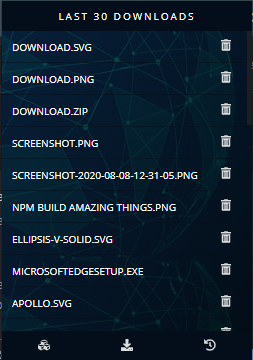
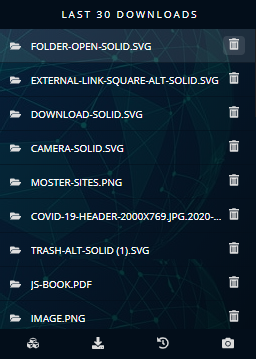
update app

diff --git a/src/App.js b/src/App.js
@@ -2,21 +2,22 @@ import React, { useState } from 'react';
 import ListTopSites from './components/ListTopSites';
 import ListDownloads from './components/ListDownloads';
 import ListHistory from './components/ListHistory';
-//const Settings = React.lazy(() => import('./components/Settings'));
+import CaptureTab from './components/CaptureTab';
 
 const tabs = [
-  { id: 0, title: 'top visited sites', comp: <ListTopSites />, svg:<svg xmlns="http://www.w3.org/2000/svg" aria-hidden="true" focusable="false" data-prefix="fas" data-icon="cubes" className="svg-inline--fa fa-cubes fa-w-16" role="img" viewBox="0 0 512 512"><path fill="#fff" d="M488.6 250.2L392 214V105.5c0-15-9.3-28.4-23.4-33.7l-100-37.5c-8.1-3.1-17.1-3.1-25.3 0l-100 37.5c-14.1 5.3-23.4 18.7-23.4 33.7V214l-96.6 36.2C9.3 255.5 0 268.9 0 283.9V394c0 13.6 7.7 26.1 19.9 32.2l100 50c10.1 5.1 22.1 5.1 32.2 0l103.9-52 103.9 52c10.1 5.1 22.1 5.1 32.2 0l100-50c12.2-6.1 19.9-18.6 19.9-32.2V283.9c0-15-9.3-28.4-23.4-33.7zM358 214.8l-85 31.9v-68.2l85-37v73.3zM154 104.1l102-38.2 102 38.2v.6l-102 41.4-102-41.4v-.6zm84 291.1l-85 42.5v-79.1l85-38.8v75.4zm0-112l-102 41.4-102-41.4v-.6l102-38.2 102 38.2v.6zm240 112l-85 42.5v-79.1l85-38.8v75.4zm0-112l-102 41.4-102-41.4v-.6l102-38.2 102 38.2v.6z"></path></svg>},
-  { id: 1, title: 'last 30 downloads', comp: <ListDownloads />, svg:<svg xmlns="http://www.w3.org/2000/svg" aria-hidden="true" focusable="false" data-prefix="fas" data-icon="download" className="svg-inline--fa fa-download fa-w-16" role="img" viewBox="0 0 512 512">
-  <path fill="#fff" d="M216 0h80c13.3 0 24 10.7 24 24v168h87.7c17.8 0 26.7 21.5 14.1 34.1L269.7 378.3c-7.5 7.5-19.8 7.5-27.3 0L90.1 226.1c-12.6-12.6-3.7-34.1 14.1-34.1H192V24c0-13.3 10.7-24 24-24zm296 376v112c0 13.3-10.7 24-24 24H24c-13.3 0-24-10.7-24-24V376c0-13.3 10.7-24 24-24h146.7l49 49c20.1 20.1 52.5 20.1 72.6 0l49-49H488c13.3 0 24 10.7 24 24zm-124 88c0-11-9-20-20-20s-20 9-20 20 9 20 20 20 20-9 20-20zm64 0c0-11-9-20-20-20s-20 9-20 20 9 20 20 20 20-9 20-20z"></path>
-  </svg> },
-  { id: 2, title: 'last 30 visited urls', comp: <ListHistory />, svg:<svg xmlns="http://www.w3.org/2000/svg" aria-hidden="true" focusable="false" data-prefix="fas" data-icon="history" className="svg-inline--fa fa-history fa-w-16" role="img" viewBox="0 0 512 512"><path fill="#fff" d="M504 255.531c.253 136.64-111.18 248.372-247.82 248.468-59.015.042-113.223-20.53-155.822-54.911-11.077-8.94-11.905-25.541-1.839-35.607l11.267-11.267c8.609-8.609 22.353-9.551 31.891-1.984C173.062 425.135 212.781 440 256 440c101.705 0 184-82.311 184-184 0-101.705-82.311-184-184-184-48.814 0-93.149 18.969-126.068 49.932l50.754 50.754c10.08 10.08 2.941 27.314-11.313 27.314H24c-8.837 0-16-7.163-16-16V38.627c0-14.254 17.234-21.393 27.314-11.314l49.372 49.372C129.209 34.136 189.552 8 256 8c136.81 0 247.747 110.78 248 247.531zm-180.912 78.784l9.823-12.63c8.138-10.463 6.253-25.542-4.21-33.679L288 256.349V152c0-13.255-10.745-24-24-24h-16c-13.255 0-24 10.745-24 24v135.651l65.409 50.874c10.463 8.137 25.541 6.253 33.679-4.21z"></path></svg> }
+  { id: 0, title: 'top visited sites', comp: <ListTopSites />, svg: <svg xmlns="http://www.w3.org/2000/svg" viewBox="0 0 512 512"><path fill="#fff" d="M488.6 250.2L392 214V105.5c0-15-9.3-28.4-23.4-33.7l-100-37.5c-8.1-3.1-17.1-3.1-25.3 0l-100 37.5c-14.1 5.3-23.4 18.7-23.4 33.7V214l-96.6 36.2C9.3 255.5 0 268.9 0 283.9V394c0 13.6 7.7 26.1 19.9 32.2l100 50c10.1 5.1 22.1 5.1 32.2 0l103.9-52 103.9 52c10.1 5.1 22.1 5.1 32.2 0l100-50c12.2-6.1 19.9-18.6 19.9-32.2V283.9c0-15-9.3-28.4-23.4-33.7zM358 214.8l-85 31.9v-68.2l85-37v73.3zM154 104.1l102-38.2 102 38.2v.6l-102 41.4-102-41.4v-.6zm84 291.1l-85 42.5v-79.1l85-38.8v75.4zm0-112l-102 41.4-102-41.4v-.6l102-38.2 102 38.2v.6zm240 112l-85 42.5v-79.1l85-38.8v75.4zm0-112l-102 41.4-102-41.4v-.6l102-38.2 102 38.2v.6z"></path></svg> },
+  {
+    id: 1, title: 'last 30 downloads', comp: <ListDownloads />, svg: <svg xmlns="http://www.w3.org/2000/svg" viewBox="0 0 512 512">
+      <path fill="#fff" d="M216 0h80c13.3 0 24 10.7 24 24v168h87.7c17.8 0 26.7 21.5 14.1 34.1L269.7 378.3c-7.5 7.5-19.8 7.5-27.3 0L90.1 226.1c-12.6-12.6-3.7-34.1 14.1-34.1H192V24c0-13.3 10.7-24 24-24zm296 376v112c0 13.3-10.7 24-24 24H24c-13.3 0-24-10.7-24-24V376c0-13.3 10.7-24 24-24h146.7l49 49c20.1 20.1 52.5 20.1 72.6 0l49-49H488c13.3 0 24 10.7 24 24zm-124 88c0-11-9-20-20-20s-20 9-20 20 9 20 20 20 20-9 20-20zm64 0c0-11-9-20-20-20s-20 9-20 20 9 20 20 20 20-9 20-20z"></path>
+    </svg>
+  },
+  { id: 2, title: 'last 30 visited urls', comp: <ListHistory />, svg: <svg xmlns="http://www.w3.org/2000/svg" viewBox="0 0 512 512"><path fill="#fff" d="M504 255.531c.253 136.64-111.18 248.372-247.82 248.468-59.015.042-113.223-20.53-155.822-54.911-11.077-8.94-11.905-25.541-1.839-35.607l11.267-11.267c8.609-8.609 22.353-9.551 31.891-1.984C173.062 425.135 212.781 440 256 440c101.705 0 184-82.311 184-184 0-101.705-82.311-184-184-184-48.814 0-93.149 18.969-126.068 49.932l50.754 50.754c10.08 10.08 2.941 27.314-11.313 27.314H24c-8.837 0-16-7.163-16-16V38.627c0-14.254 17.234-21.393 27.314-11.314l49.372 49.372C129.209 34.136 189.552 8 256 8c136.81 0 247.747 110.78 248 247.531zm-180.912 78.784l9.823-12.63c8.138-10.463 6.253-25.542-4.21-33.679L288 256.349V152c0-13.255-10.745-24-24-24h-16c-13.255 0-24 10.745-24 24v135.651l65.409 50.874c10.463 8.137 25.541 6.253 33.679-4.21z"></path></svg> },
+  { id: 3, title: 'Capture Current Tab', comp: <CaptureTab />, svg: <svg xmlns="http://www.w3.org/2000/svg" viewBox="0 0 512 512"><path fill="#fff" d="M512 144v288c0 26.5-21.5 48-48 48H48c-26.5 0-48-21.5-48-48V144c0-26.5 21.5-48 48-48h88l12.3-32.9c7-18.7 24.9-31.1 44.9-31.1h125.5c20 0 37.9 12.4 44.9 31.1L376 96h88c26.5 0 48 21.5 48 48zM376 288c0-66.2-53.8-120-120-120s-120 53.8-120 120 53.8 120 120 120 120-53.8 120-120zm-32 0c0 48.5-39.5 88-88 88s-88-39.5-88-88 39.5-88 88-88 88 39.5 88 88z"/></svg> }
 ];
 
 export default function App () {
 
-  const [state, setState] = useState({
-    activeTab: 0
-  });
+  const [state, setState] = useState({ activeTab: 0 });
 
   const onTab = (tabId) => {
     setState({ ...state, activeTab: +tabId });

diff --git a/src/components/CaptureTab.js b/src/components/CaptureTab.js
@@ -1,0 +1,36 @@
+import React, { useState } from 'react';
+
+let isChrome = /Chrome/.test(navigator.userAgent) && /Google Inc/.test(navigator.vendor);
+window.chrome = isChrome ? window.chrome : window.browser;
+
+export default function CaptureTab () {
+
+  const [imgURL, setImgURL] = useState(null);
+
+  const onCapture = () => {
+    window.chrome.tabs.captureVisibleTab(null, { format: 'png' }, (imageURL) => {
+      setImgURL(imageURL);
+    });
+  }
+
+  const onDownload = () => {
+    const link = document.createElement('a');
+    link.href = imgURL;
+    link.download = 'moster-sites.png';
+    document.body.appendChild(link);
+    link.click();
+    document.body.removeChild(link);
+  }
+
+  return (
+    <div className="w-100 h-100 d-flex-col cp-tab">
+      {imgURL
+        ? <>
+          <button onClick={onCapture}><svg xmlns="http://www.w3.org/2000/svg" viewBox="0 0 512 512"><path fill="#fff" d="M512 144v288c0 26.5-21.5 48-48 48H48c-26.5 0-48-21.5-48-48V144c0-26.5 21.5-48 48-48h88l12.3-32.9c7-18.7 24.9-31.1 44.9-31.1h125.5c20 0 37.9 12.4 44.9 31.1L376 96h88c26.5 0 48 21.5 48 48zM376 288c0-66.2-53.8-120-120-120s-120 53.8-120 120 53.8 120 120 120 120-53.8 120-120zm-32 0c0 48.5-39.5 88-88 88s-88-39.5-88-88 39.5-88 88-88 88 39.5 88 88z" /></svg> capture</button>          
+          <div className="w-100"><img src={imgURL} alt="captured tab" className="w-100" /></div>
+          <button onClick={onDownload}><svg xmlns="http://www.w3.org/2000/svg" viewBox="0 0 512 512"><path fill="#fff" d="M216 0h80c13.3 0 24 10.7 24 24v168h87.7c17.8 0 26.7 21.5 14.1 34.1L269.7 378.3c-7.5 7.5-19.8 7.5-27.3 0L90.1 226.1c-12.6-12.6-3.7-34.1 14.1-34.1H192V24c0-13.3 10.7-24 24-24zm296 376v112c0 13.3-10.7 24-24 24H24c-13.3 0-24-10.7-24-24V376c0-13.3 10.7-24 24-24h146.7l49 49c20.1 20.1 52.5 20.1 72.6 0l49-49H488c13.3 0 24 10.7 24 24zm-124 88c0-11-9-20-20-20s-20 9-20 20 9 20 20 20 20-9 20-20zm64 0c0-11-9-20-20-20s-20 9-20 20 9 20 20 20 20-9 20-20z" /></svg> download</button>
+        </>
+        : <button onClick={onCapture} className="h-100 w-100 p-0 m-0"><svg className="w-52" xmlns="http://www.w3.org/2000/svg" viewBox="0 0 512 512"><path fill="#fff" d="M512 144v288c0 26.5-21.5 48-48 48H48c-26.5 0-48-21.5-48-48V144c0-26.5 21.5-48 48-48h88l12.3-32.9c7-18.7 24.9-31.1 44.9-31.1h125.5c20 0 37.9 12.4 44.9 31.1L376 96h88c26.5 0 48 21.5 48 48zM376 288c0-66.2-53.8-120-120-120s-120 53.8-120 120 53.8 120 120 120 120-53.8 120-120zm-32 0c0 48.5-39.5 88-88 88s-88-39.5-88-88 39.5-88 88-88 88 39.5 88 88z" /></svg></button>}
+    </div>
+  );
+}

diff --git a/src/index.css b/src/index.css
@@ -32,8 +32,21 @@ body {margin: 0; overflow-x: hidden;}
 header,.tabs {height:30px; background-color: #030e1a;}
 
 .tabs { position: fixed;bottom: 0;left: 0;right: 0;z-index: 9;}
-.tabs span {flex: 1 1 33%; text-align: center; }
+.tabs span {flex: 1 1 25%; text-align: center; }
 
+
+/*******************************/
+.cp-tab {justify-content: space-between; align-items: center;}
+.cp-tab button {
+  background-color: #01181f;
+  padding: 7px 20px;
+  margin: 10px 0;
+  border-radius: 0;
+  box-shadow: 0px 1.6px 3.6px rgba(0,0,0,0.25),0px 0px 2.9px rgba(0,0,0,0.21);
+}
+
+.cp-tab img {padding: 10px;}
+.w-52 { width: 52px !important;  height: 52px !important; }
 /*******************************/
 ul { width: 100%; list-style: none; margin: 0; padding: 0;  }
 li {padding: 7px 10px; width: 100%; border-bottom: 1px solid #030e1a82; cursor: pointer; transition: background .25s; }
@@ -46,18 +59,31 @@ svg { width: 12px;  height: 12px;}
 svg path {fill: #dddddd;}
 svg path:hover {fill: #00BCD4}
 
-button {    background-color: inherit;
-  color: #fff; border-radius: 4px; border: 0; transition:background .25s}
+button {
+  color: #fff;
+  font-size: 12px;
+  text-transform: uppercase;
+  letter-spacing: 2px;
+  border: 0;
+  transition: background-color .25s;
+  cursor: pointer;
+}
 
-button:hover {background-color: #ff5151; }
+button:hover {background-color: #ffffff1a;}
 
-button svg { width: 10px; }
-button svg path:hover {fill: #ffffff}
+ul li button { background-color: inherit; margin:0; border-radius: 4px; }
+
+ul li button:hover {background-color: #ff5151; }
+
+ul li button svg { width: 10px; }
+ul li button svg path:hover {fill: #ffffff}
 
 hr {
   margin: 0;
   border: 1px solid var(--main-color);
 }
+
+/************************************/
 
 .d-flex {
   display: flex;
@@ -78,7 +104,8 @@ hr {
   flex-wrap: wrap;
 }
 
-.m-0 {margin:0}
+.p-0 {padding:0 !important; }
+.m-0 {margin:0 !important; }
 .mt-0 {margin-top:0}
 .mr-10 {margin-right: 10px;}
 .ml-10 {margin-left: 10px;}

diff --git a/src/components/ListHistory.js b/src/components/ListHistory.js
@@ -17,7 +17,7 @@ export default function ListHistory () {
   }, []);
 
   const onRm = (site) => {
-    let c = window.confirm("Are you sure you wish to delete? " + site.title);
+    let c = window.confirm("Delete? " + site.title);
     c && window.chrome.history.deleteUrl({ url: site.url }, () => {
       setIsLoading(true);
       window.chrome.history.search({ text: '', maxResults: 30 }, (historySites) => {
@@ -30,8 +30,9 @@ export default function ListHistory () {
   return (<>
     <ul>
       {allSites && allSites.map(site => <li key={site.id} className="d-flex-sp truncate">
-        <a href={site.url} target="_blank" rel="noopener noreferrer" className="truncate txt-muted">
-          {site.title}
+        <a href={site.url} target="_blank" rel="noopener noreferrer" className="d-flex-sp truncate txt-muted">
+        <svg xmlns="http://www.w3.org/2000/svg" viewBox="0 0 448 512"><path fill="#fff" d="M448 80v352c0 26.51-21.49 48-48 48H48c-26.51 0-48-21.49-48-48V80c0-26.51 21.49-48 48-48h352c26.51 0 48 21.49 48 48zm-88 16H248.029c-21.313 0-32.08 25.861-16.971 40.971l31.984 31.987L67.515 364.485c-4.686 4.686-4.686 12.284 0 16.971l31.029 31.029c4.687 4.686 12.285 4.686 16.971 0l195.526-195.526 31.988 31.991C358.058 263.977 384 253.425 384 231.979V120c0-13.255-10.745-24-24-24z"/></svg>
+        <span className="truncate ml-10">{site.title}</span>
         </a>
 
         <button onClick={() => { onRm(site) }}><svg xmlns="http://www.w3.org/2000/svg" viewBox="0 0 448 512"><path fill="#fff" d="M32 464a48 48 0 0 0 48 48h288a48 48 0 0 0 48-48V128H32zm272-256a16 16 0 0 1 32 0v224a16 16 0 0 1-32 0zm-96 0a16 16 0 0 1 32 0v224a16 16 0 0 1-32 0zm-96 0a16 16 0 0 1 32 0v224a16 16 0 0 1-32 0zM432 32H312l-9.4-18.7A24 24 0 0 0 281.1 0H166.8a23.72 23.72 0 0 0-21.4 13.3L136 32H16A16 16 0 0 0 0 48v32a16 16 0 0 0 16 16h416a16 16 0 0 0 16-16V48a16 16 0 0 0-16-16z"/></svg></button>

diff --git a/src/components/ListDownloads.js b/src/components/ListDownloads.js
@@ -27,7 +27,7 @@ export default function ListDownloads () {
   }, []);
 
   const onRm = (file) => {
-    let c = window.confirm("Are you sure you wish to delete? " + extractFileName(file.filename));
+    let c = window.confirm("Delete? " + extractFileName(file.filename));
     c && window.chrome.downloads.erase({ id: file.id }, () => {
       setIsLoading(true);
       window.chrome.downloads.search({}, (downloads) => {
@@ -41,8 +41,9 @@ export default function ListDownloads () {
     <ul>
       {state && state.map(file => <li key={file.id} className="truncate d-flex-sp">
 
-        <span onClick={() => { window.chrome.downloads.show(file.id) }} className="truncate">
-          {extractFileName(file.filename)}
+        <span onClick={() => { window.chrome.downloads.show(file.id) }} className="d-flex-sp truncate">
+        <svg xmlns="http://www.w3.org/2000/svg" viewBox="0 0 576 512"><path fill="#fff" d="M572.694 292.093L500.27 416.248A63.997 63.997 0 0 1 444.989 448H45.025c-18.523 0-30.064-20.093-20.731-36.093l72.424-124.155A64 64 0 0 1 152 256h399.964c18.523 0 30.064 20.093 20.73 36.093zM152 224h328v-48c0-26.51-21.49-48-48-48H272l-64-64H48C21.49 64 0 85.49 0 112v278.046l69.077-118.418C86.214 242.25 117.989 224 152 224z"/></svg>
+        <span className="truncate ml-10">{extractFileName(file.filename)}</span>
         </span>
 
         <button onClick={() => { onRm(file) }}><svg xmlns="http://www.w3.org/2000/svg" viewBox="0 0 448 512"><path fill="#fff" d="M32 464a48 48 0 0 0 48 48h288a48 48 0 0 0 48-48V128H32zm272-256a16 16 0 0 1 32 0v224a16 16 0 0 1-32 0zm-96 0a16 16 0 0 1 32 0v224a16 16 0 0 1-32 0zm-96 0a16 16 0 0 1 32 0v224a16 16 0 0 1-32 0zM432 32H312l-9.4-18.7A24 24 0 0 0 281.1 0H166.8a23.72 23.72 0 0 0-21.4 13.3L136 32H16A16 16 0 0 0 0 48v32a16 16 0 0 0 16 16h416a16 16 0 0 0 16-16V48a16 16 0 0 0-16-16z"/></svg></button>

diff --git a/src/components/ListTopSites.js b/src/components/ListTopSites.js
@@ -16,7 +16,10 @@ export default function ListTopSites () {
   return (
     <ul>
       {allSites && allSites.map(site => <li key={site.id} className="truncate">
-        <a href={site.url} target="_blank" rel="noopener noreferrer" className="truncate txt-muted">{site.title}</a>
+        <a href={site.url} target="_blank" rel="noopener noreferrer" className="d-flex-sp truncate txt-muted">
+          <svg xmlns="http://www.w3.org/2000/svg" viewBox="0 0 448 512"><path fill="#fff" d="M448 80v352c0 26.51-21.49 48-48 48H48c-26.51 0-48-21.49-48-48V80c0-26.51 21.49-48 48-48h352c26.51 0 48 21.49 48 48zm-88 16H248.029c-21.313 0-32.08 25.861-16.971 40.971l31.984 31.987L67.515 364.485c-4.686 4.686-4.686 12.284 0 16.971l31.029 31.029c4.687 4.686 12.285 4.686 16.971 0l195.526-195.526 31.988 31.991C358.058 263.977 384 253.425 384 231.979V120c0-13.255-10.745-24-24-24z" /></svg>
+          <span className="truncate ml-10">{site.title}</span>
+        </a>
       </li>)}
     </ul>
   );

diff --git a/src/components/Spinner.js b/src/components/Spinner.js
@@ -1,7 +1,9 @@
 import React from 'react';
 
 export default function Spinner () {
-  return (<div className="spinner d-flex">
+  return (
+  <div className="spinner d-flex">
     <div className="spinner-border"></div>
-  </div>);
+  </div>
+  );
 }

diff --git a/README.md b/README.md
@@ -1,7 +1,7 @@
 <div align="center">
   <img src="public/icons/icon128.png"><br /><br />
   <h4 style="margin-top:0">🔥 A Free And Lightweight browser extension 🔥</h4>
-  <p>to get most visited websites, manage yours downloads and your browser history</p>
+  <p>to get most visited websites, manage yours downloads, your browser history and Capture current tab</p>
 
   ![Contributions welcome](https://img.shields.io/badge/contributions-welcome-brightgreen) ![GitHub release](https://img.shields.io/github/release/Chromo-lib/moster/all?logo=GitHub) ![](https://badgen.net/github/license/Chromo-lib/moster)
 
@@ -10,6 +10,7 @@
 - [x] Get top visited websites
 - [x] Manage yours downloads
 - [x] Manage your browser history
+- [x] Capture current tab
 
 ### Tested On
 - [x] Chrome
